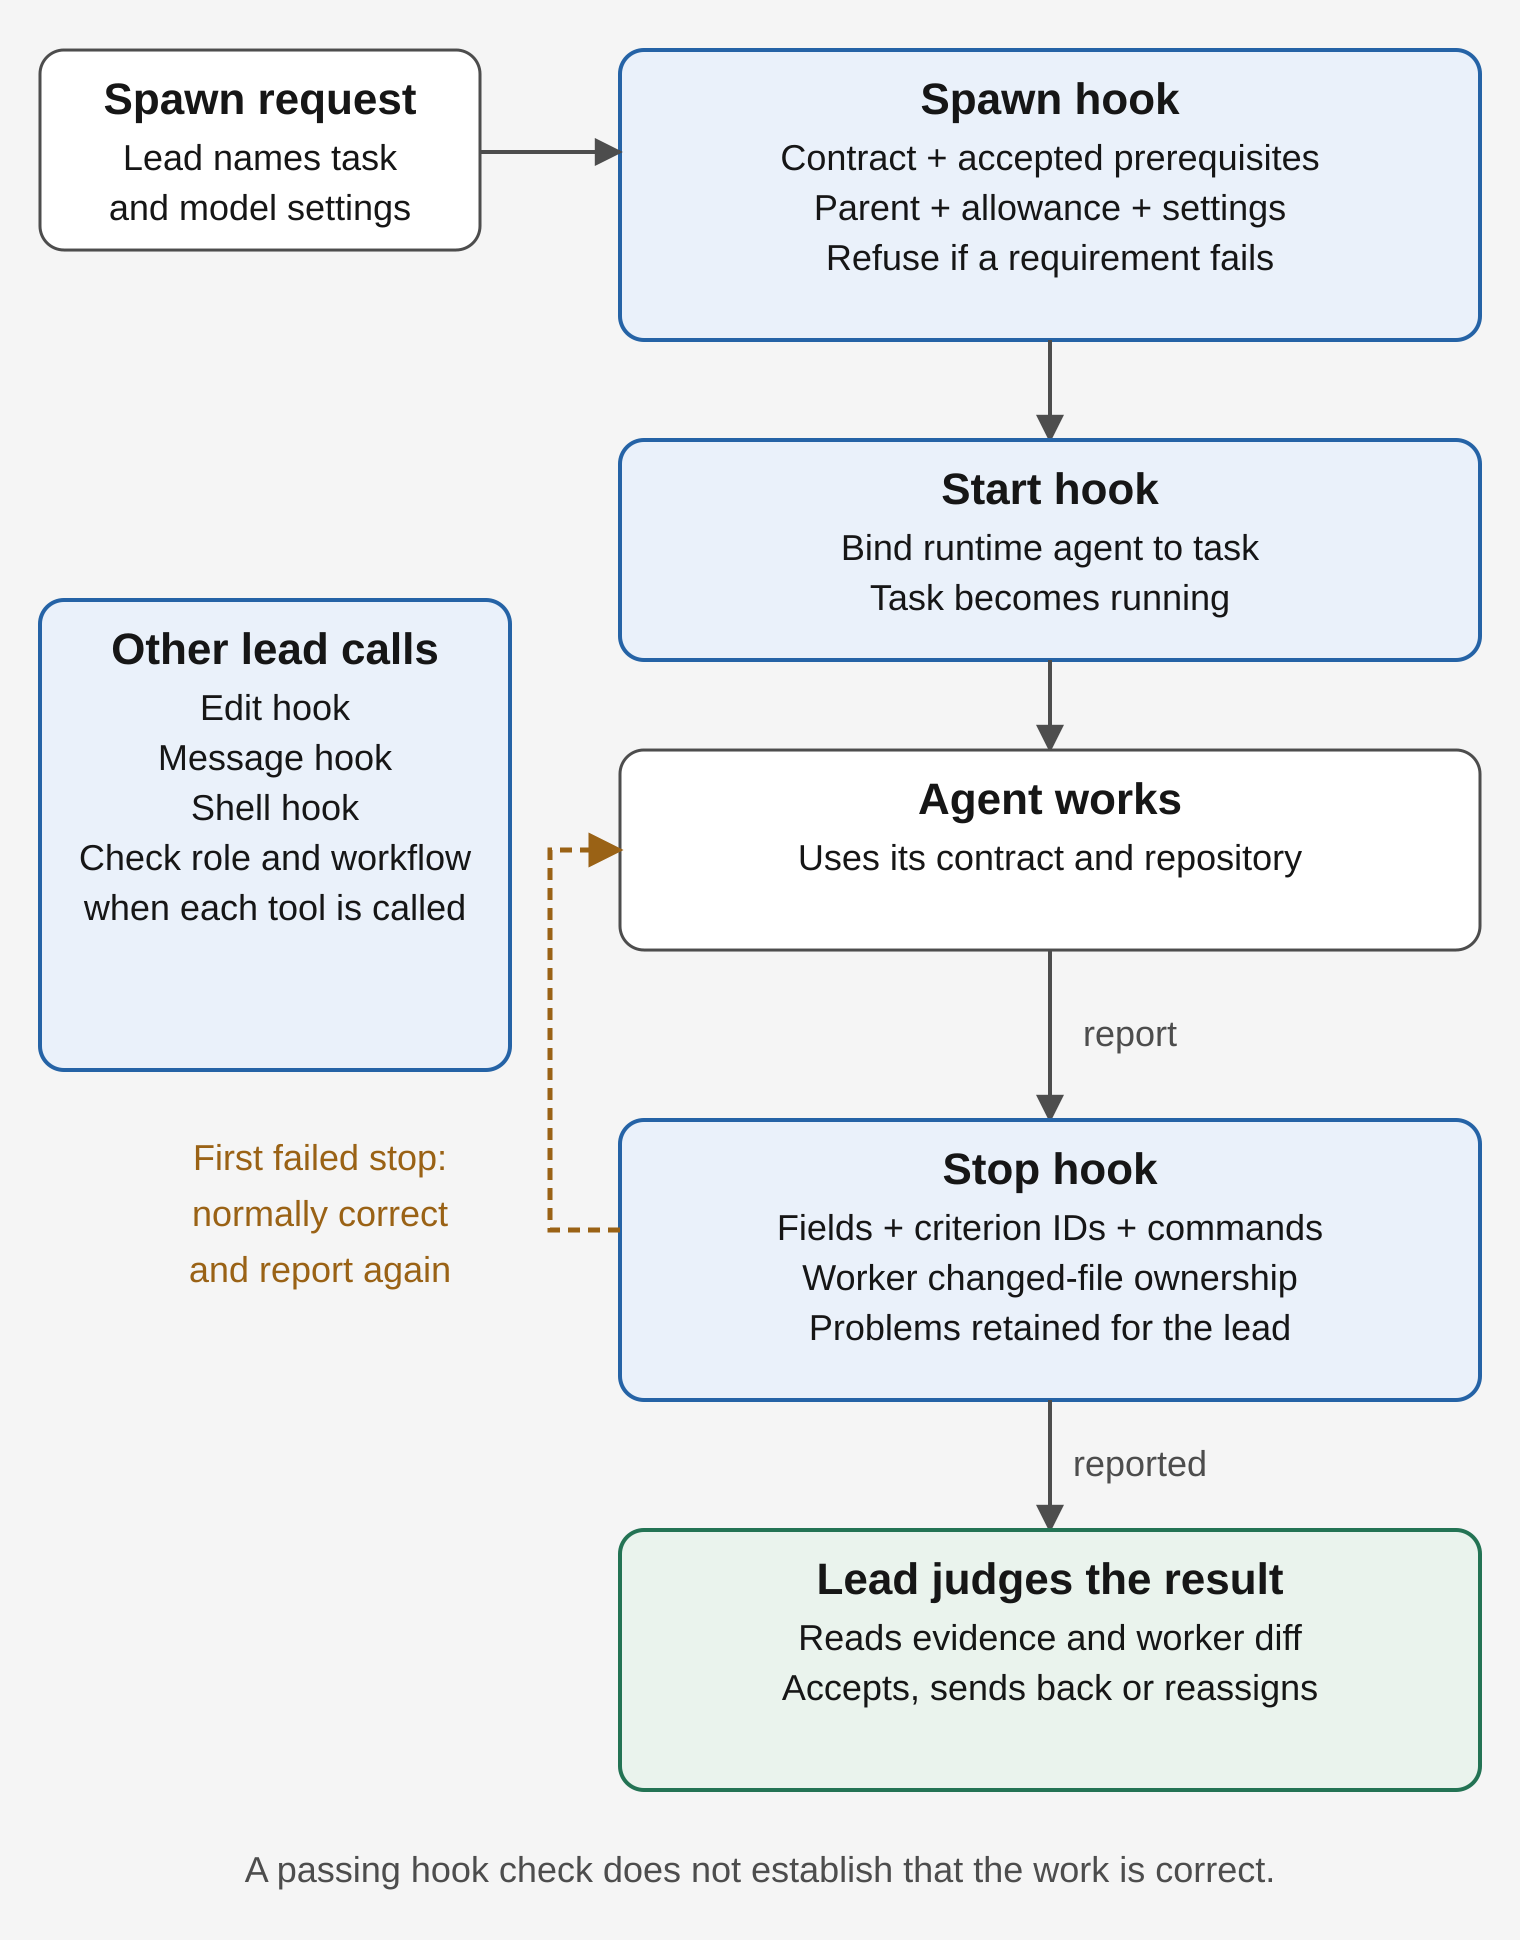
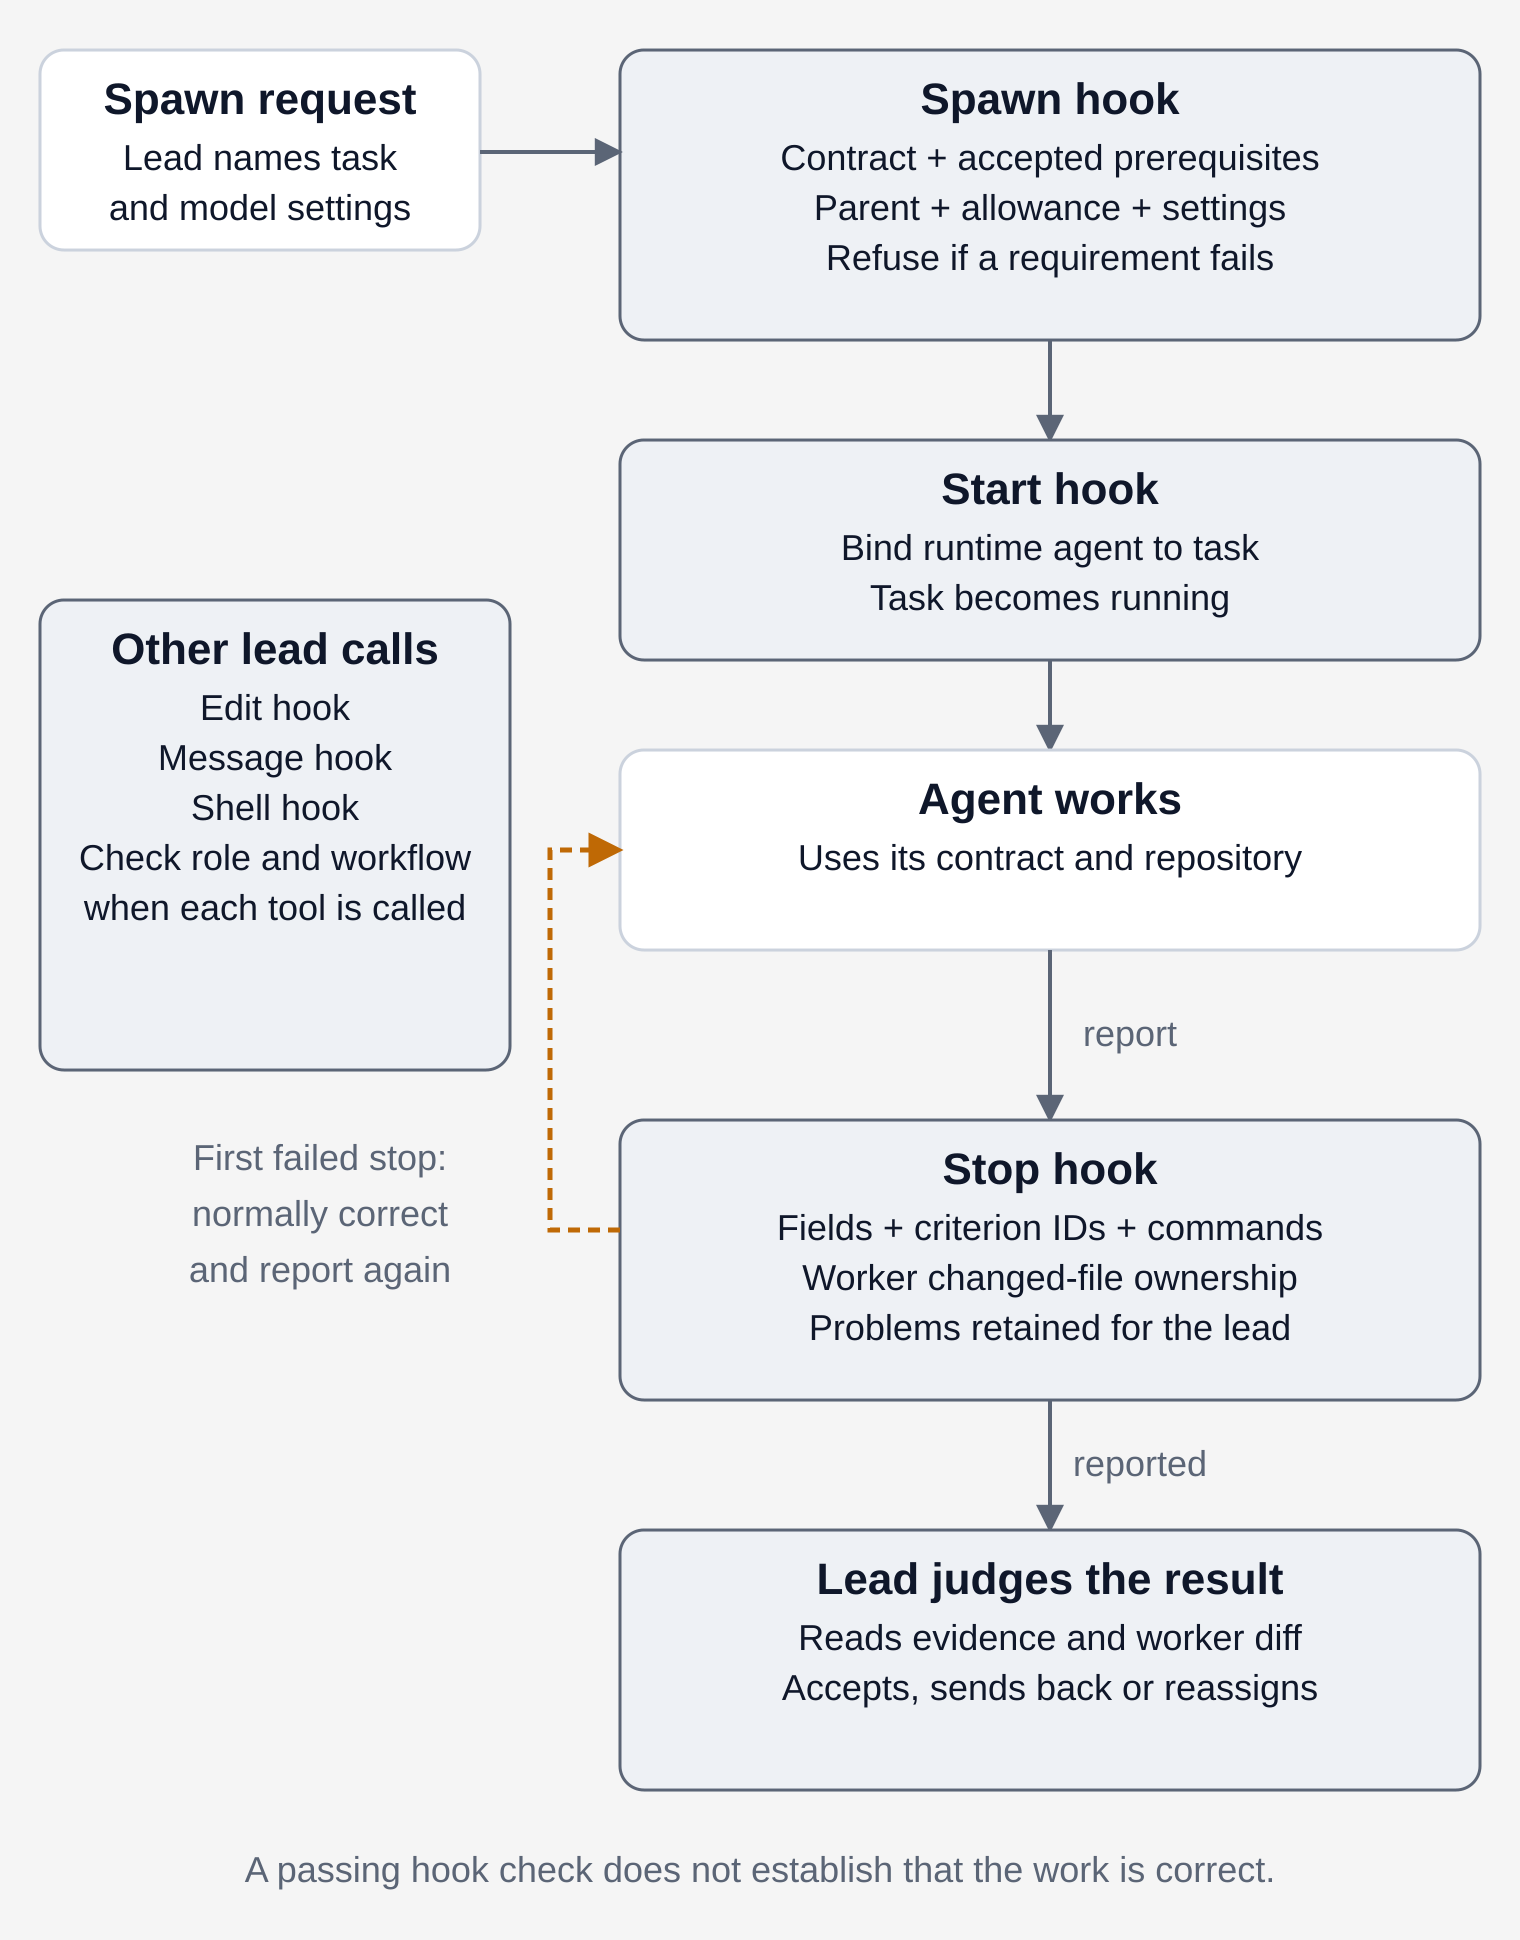
style: align lead-team diagrams with observer palette

diff --git a/styles/diagrams.css b/styles/diagrams.css
@@ -252,16 +252,29 @@ is supplied separately by figures.css. */
 		fill: var(--color-accent);
 	}
 
-	/* Lead-team diagrams share one visual vocabulary for roles and state. */
+	/* State colours follow the observer; roles and machinery stay neutral. */
 	.prose .diagram-lead-team {
-		--color-team-active: light-dark(#2563a6, #83b5ec);
-		--color-team-active-bg: light-dark(#eaf1fa, #1b293b);
-		--color-team-reported: light-dark(#7750a8, #bd9be7);
-		--color-team-reported-bg: light-dark(#f2edf8, #2c233b);
-		--color-team-decision: light-dark(#237354, #85baa1);
-		--color-team-decision-bg: light-dark(#eaf3ed, #203129);
-		--color-team-rework: light-dark(#9a6215, #dcad61);
-		--color-team-rework-bg: light-dark(#fbf3e7, #332a1c);
+		--color-team-surface: light-dark(#ffffff, #12151c);
+		--color-team-panel: light-dark(#f8fafc, #181c25);
+		--color-team-emphasis: light-dark(#eef1f5, #212633);
+		--color-team-border: light-dark(#cbd2dd, #364052);
+		--color-team-text: light-dark(#0f172a, #e6e9f0);
+		--color-team-muted: light-dark(#5b6576, #9aa3b5);
+		--color-team-queued: light-dark(#64748b, #94a3b8);
+		--color-team-queued-bg: light-dark(#f1f5f9, #1e2430);
+		--color-team-running: light-dark(#2563eb, #60a5fa);
+		--color-team-running-bg: light-dark(#e0ecff, #142441);
+		--color-team-reported: light-dark(#7c3aed, #a78bfa);
+		--color-team-reported-bg: light-dark(#f1eaff, #261d42);
+		--color-team-done: light-dark(#059669, #34d399);
+		--color-team-done-bg: light-dark(#e3f7ef, #0f2b22);
+		--color-team-rework: light-dark(#d97706, #fbbf24);
+		--color-team-rework-bg: light-dark(#fff3dc, #33260e);
+		/* Darken the observer amber on light pages so thin paths stay visible. */
+		--color-team-rework-line: light-dark(
+			color-mix(in srgb, var(--color-team-rework) 88%, black),
+			var(--color-team-rework)
+		);
 		font-family: var(--font-ui);
 	}
 
@@ -270,20 +283,41 @@ is supplied separately by figures.css. */
 		font-weight: 650;
 	}
 
+	.prose .diagram-lead-team .heading,
+	.prose .diagram-lead-team .label {
+		fill: var(--color-team-text);
+	}
+
 	.prose .diagram-lead-team .label,
 	.prose .diagram-lead-team .muted {
 		font-size: 18px;
 	}
 
+	.prose .diagram-lead-team .muted {
+		fill: var(--color-team-muted);
+	}
+
 	.prose .diagram-lead-team .frame {
-		fill: var(--color-surface);
-		stroke: var(--color-muted);
+		fill: var(--color-team-surface);
+		stroke: var(--color-team-border);
 		stroke-width: 1.5;
 	}
 
-	.prose .diagram-lead-team .active-frame {
-		fill: var(--color-team-active-bg);
-		stroke: var(--color-team-active);
+	.prose .diagram-lead-team .structural-frame {
+		fill: var(--color-team-emphasis);
+		stroke: var(--color-team-muted);
+		stroke-width: 1.5;
+	}
+
+	.prose .diagram-lead-team .queued-frame {
+		fill: var(--color-team-queued-bg);
+		stroke: var(--color-team-queued);
+		stroke-width: 2;
+	}
+
+	.prose .diagram-lead-team .running-frame {
+		fill: var(--color-team-running-bg);
+		stroke: var(--color-team-running);
 		stroke-width: 2;
 	}
 
@@ -293,16 +327,16 @@ is supplied separately by figures.css. */
 		stroke-width: 2;
 	}
 
-	.prose .diagram-lead-team .decision-frame {
-		fill: var(--color-team-decision-bg);
-		stroke: var(--color-team-decision);
+	.prose .diagram-lead-team .done-frame {
+		fill: var(--color-team-done-bg);
+		stroke: var(--color-team-done);
 		stroke-width: 2;
 	}
 
 	.prose .diagram-lead-team .quiet-frame,
 	.prose .diagram-lead-team .group-frame {
-		fill: var(--color-surface);
-		stroke: var(--color-border);
+		fill: var(--color-team-panel);
+		stroke: var(--color-team-border);
 		stroke-width: 1;
 	}
 
@@ -313,37 +347,32 @@ is supplied separately by figures.css. */
 
 	.prose .diagram-lead-team .rework-group {
 		fill: var(--color-team-rework-bg);
-		stroke: var(--color-team-rework);
+		stroke: var(--color-team-rework-line);
 	}
 
-	.prose .diagram-lead-team .flow {
+	.prose .diagram-lead-team .flow,
+	.prose .diagram-lead-team .feedback-flow {
 		fill: none;
-		stroke: var(--color-muted);
+		stroke: var(--color-team-muted);
 		stroke-width: 2;
 	}
 
-	.prose .diagram-lead-team .return-flow,
-	.prose .diagram-lead-team .decision-flow {
+	.prose .diagram-lead-team .feedback-flow {
+		stroke-dasharray: 6 4;
+	}
+
+	.prose .diagram-lead-team .return-flow {
 		fill: none;
-		stroke: var(--color-team-rework);
+		stroke: var(--color-team-rework-line);
 		stroke-width: 2.5;
 		stroke-dasharray: 6 4;
 	}
 
-	.prose .diagram-lead-team .decision-flow {
-		stroke: var(--color-team-decision);
-	}
-
-	.prose .diagram-lead-team .return-arrow,
-	.prose .diagram-lead-team .return-label {
-		fill: var(--color-team-rework);
-	}
-
-	.prose .diagram-lead-team .decision-arrow {
-		fill: var(--color-team-decision);
+	.prose .diagram-lead-team .return-arrow {
+		fill: var(--color-team-rework-line);
 	}
 
 	.prose .diagram-lead-team .arrowhead {
-		fill: var(--color-muted);
+		fill: var(--color-team-muted);
 	}
 }
